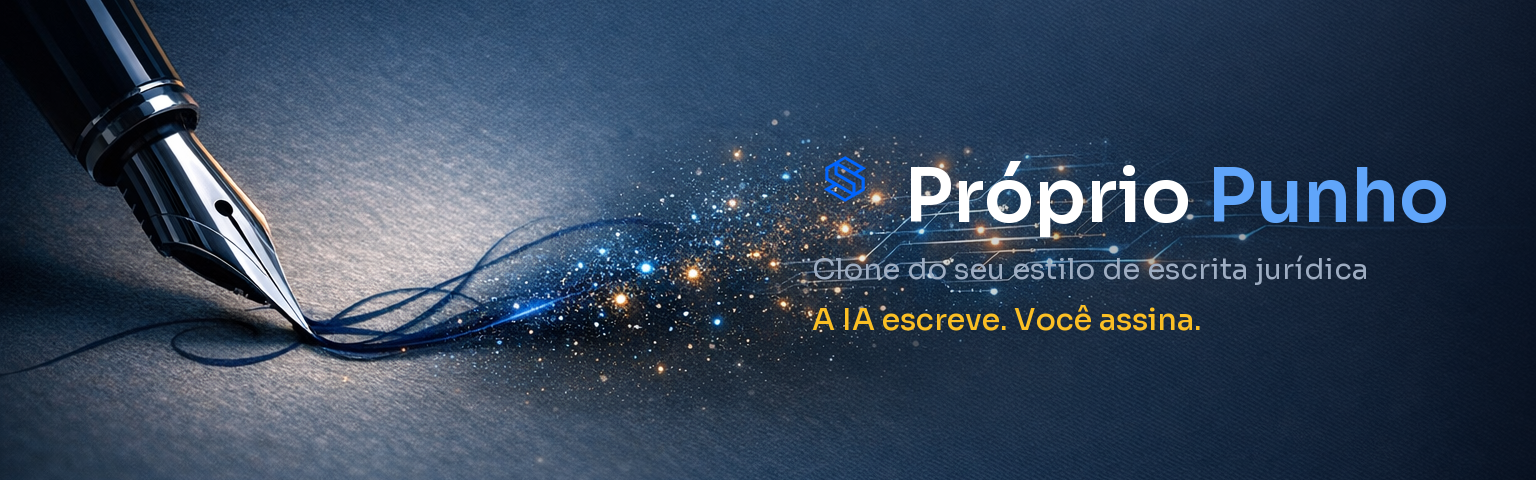
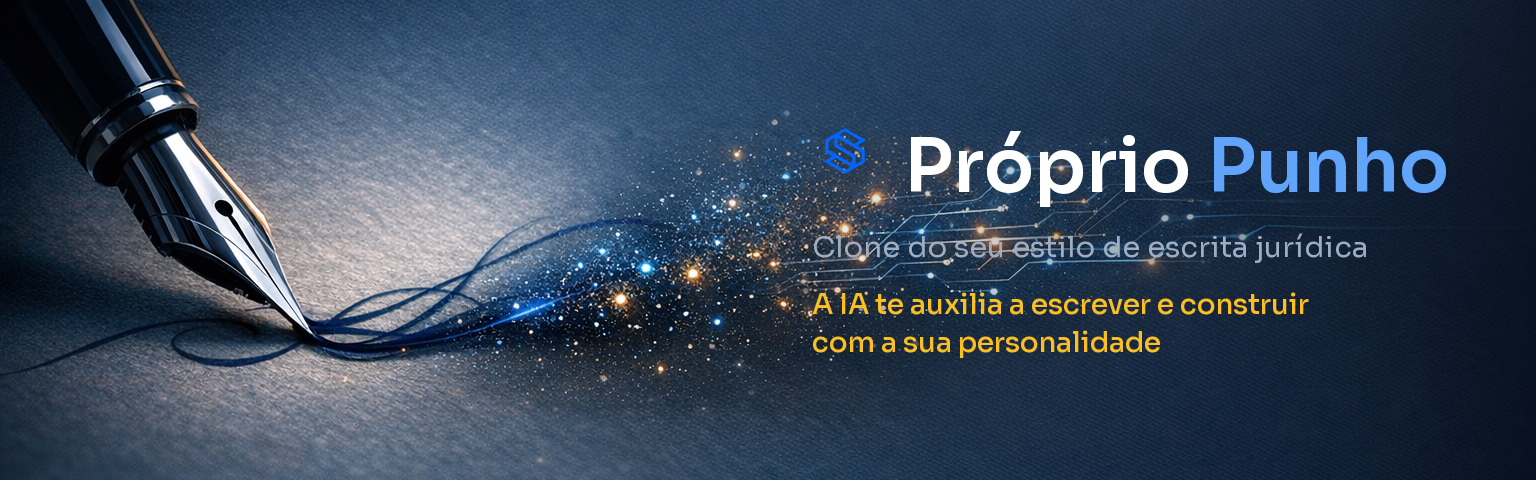
Ajusta tagline para 'A IA te auxilia a escrever e construir com a sua personalidade'
Atualiza banner (recomposto em 2 linhas a partir do fundo sem texto),
blockquote da landing e og:description.

Changed region(s): [[0.5312, 0.2812, 0.9688, 0.75], [0.5312, 0.25, 0.5625, 0.4375]]

diff --git a/docs/index.html b/docs/index.html
@@ -6,7 +6,7 @@
 <title>Próprio Punho — a IA escreve peças com a sua cara</title>
 <meta name="description" content="Skill gratuita de IA que clona o seu estilo de escrita jurídica: a minuta sai com a sua estrutura, o seu vocabulário e a sua voz — sem cara de ChatGPT. Você revisa e assina.">
 <meta property="og:title" content="Próprio Punho — a IA escreve peças com a sua cara">
-<meta property="og:description" content="A IA escreve. Você assina. Skill gratuita que clona seu estilo de escrita jurídica e humaniza a minuta feita com IA.">
+<meta property="og:description" content="A IA te auxilia a escrever e construir com a sua personalidade. Skill gratuita que clona seu estilo de escrita jurídica e humaniza a minuta feita com IA.">
 <meta property="og:image" content="https://simiao-cavalcante.github.io/proprio-punho/assets/banner.png">
 <link rel="preconnect" href="https://fonts.googleapis.com">
 <link rel="preconnect" href="https://fonts.gstatic.com" crossorigin>
@@ -150,7 +150,7 @@
 
 <section class="principio">
   <div class="wrap">
-    <blockquote>"A IA escreve. <em>Você assina.</em>"</blockquote>
+    <blockquote>"A IA te auxilia a escrever e construir <em>com a sua personalidade.</em>"</blockquote>
     <p>O clone reproduz a sua forma de escrever, não o seu juízo profissional. A peça é sempre um rascunho para a sua revisão: jurisprudência se confere na fonte antes de protocolar, e dado sigiloso de cliente não entra sem anonimização. A skill devolve o seu tempo — a responsabilidade continua sua.</p>
   </div>
 </section>

diff --git a/README.md b/README.md
@@ -24,7 +24,7 @@ Uma **skill** que ensina a IA a escrever com a **sua cara**: você monta um clon
 - 🧬 **Guia de estilo** — o DNA do seu texto em regras verificáveis (estrutura, argumentação, frase), cada uma com um exemplo real seu.
 - 🚫 **Anti-estilo** — a lista do que você **nunca** escreve + pares "antes/depois". É o que remove os vícios de IA e deixa o texto com a sua digital.
 
-> **A IA escreve. Você assina.** O clone reproduz a sua forma, não o seu juízo: a peça é sempre um rascunho para a sua revisão.
+> **A IA te auxilia a escrever e construir com a sua personalidade.** O clone reproduz a sua forma, não o seu juízo: a peça é sempre um rascunho para a sua revisão.
 
 ---
 